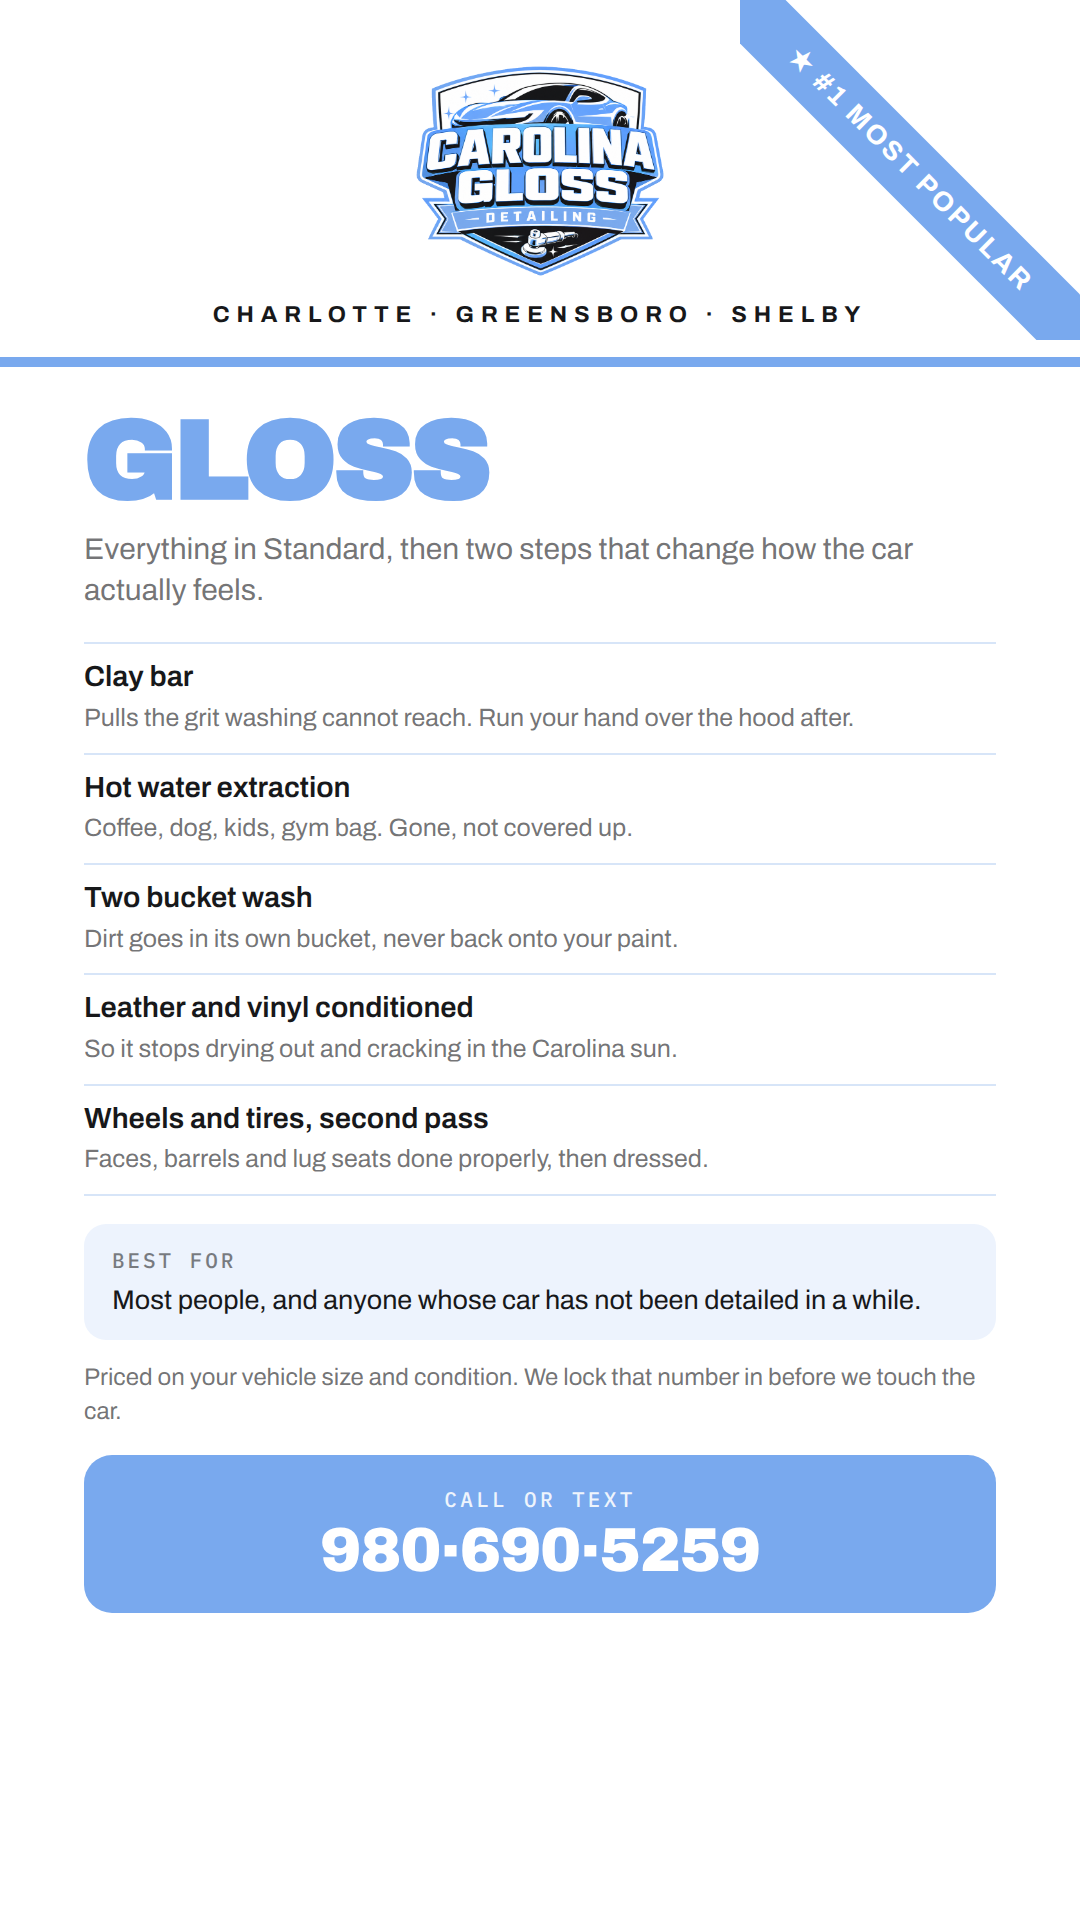
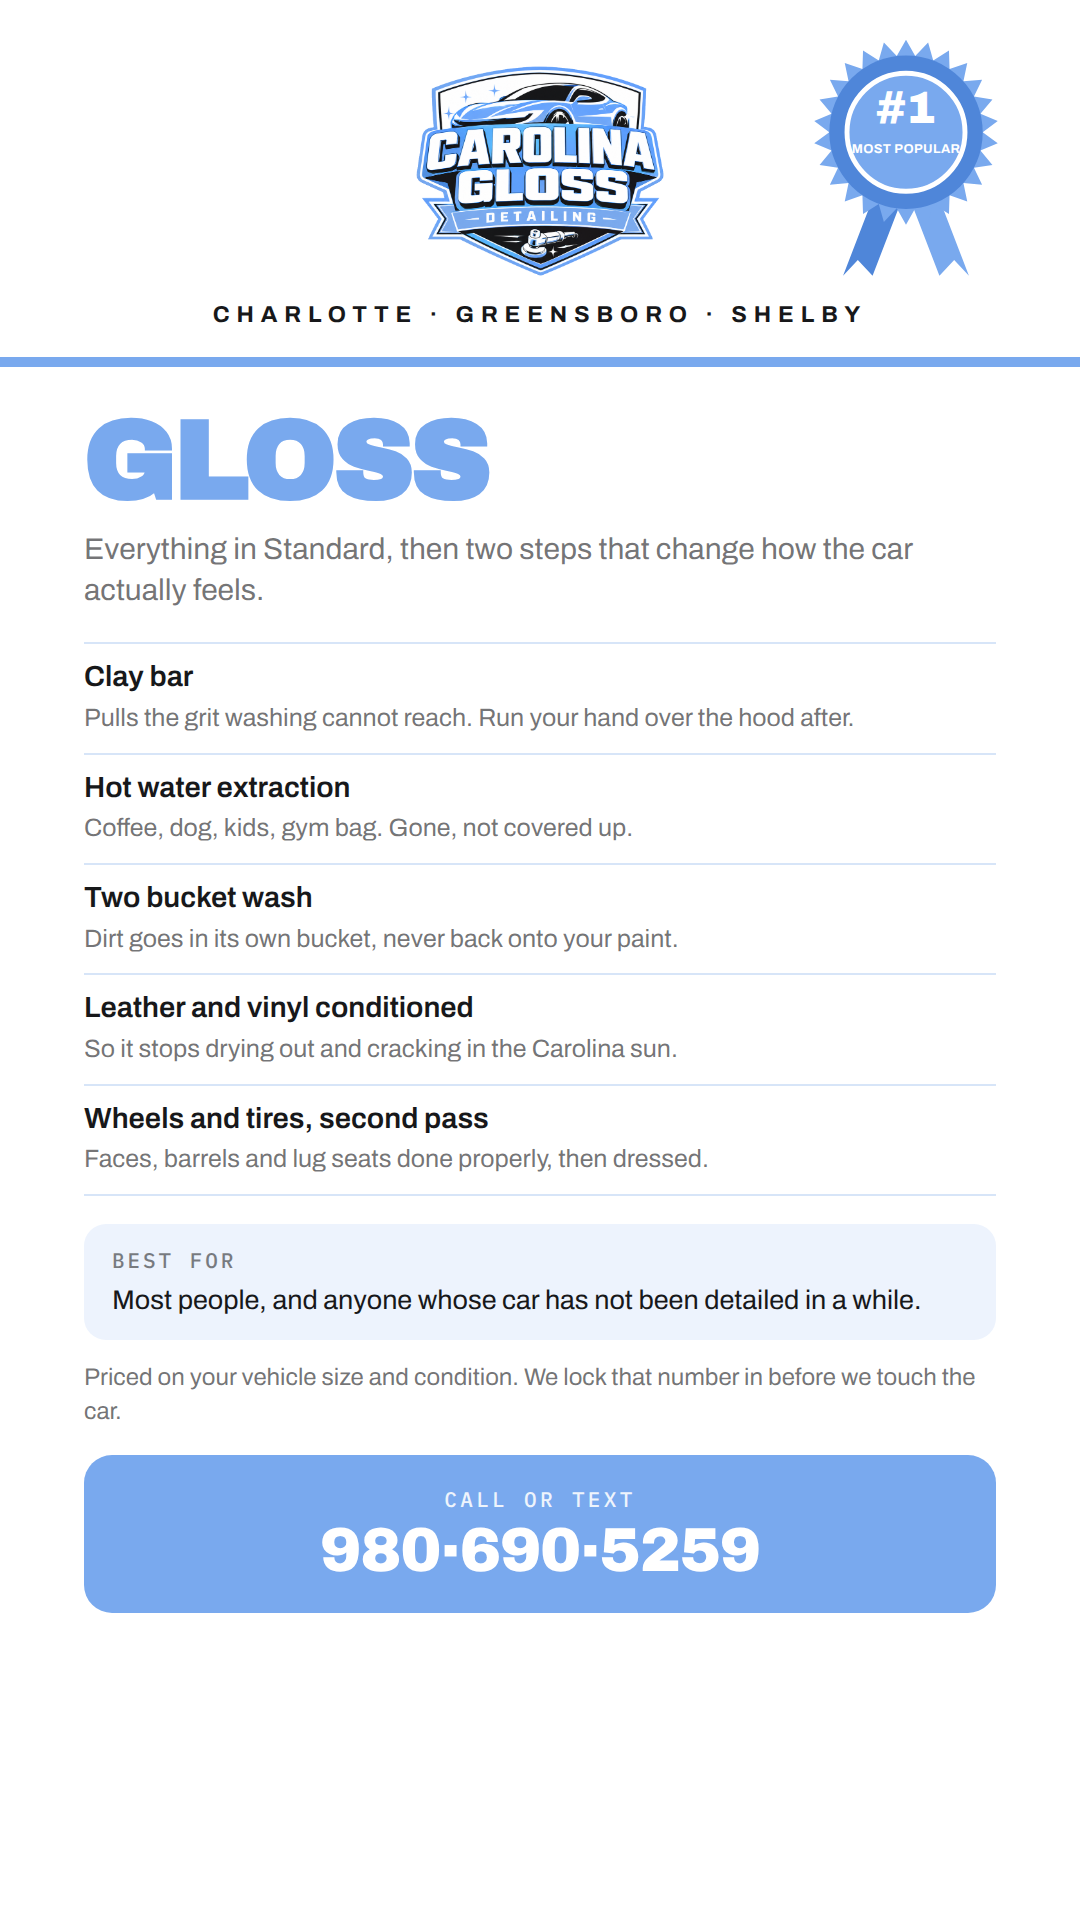
Draw the Most Popular badge as an award rosette
Swaps the corner banner for an inline-SVG rosette in the top right: pleated
ring, medallion reading #1 MOST POPULAR, two ribbon tails. Drawn as vectors
rather than an image so it scales and stays on brand.

Sized so the tails stop clear of the city line and the medallion label sits
inside its ring. A darker tone of the brand blue gives the pleats and tails
their depth.

Claude-Session: https://claude.ai/code/session_016b3V5EjCTmSZMCSHy3XdSF

Changed region(s): [[0.6722, 0.0, 1.0, 0.1875]]

diff --git a/design/story-highlights/Story Highlights - Services.dc.html b/design/story-highlights/Story Highlights - Services.dc.html
@@ -51,7 +51,7 @@
     <sc-if value="{{ showLabels }}" hint-placeholder-val="{{ true }}">
       <div style="font:500 30px 'IBM Plex Mono',monospace;color:#8A95A2;letter-spacing:0.04em;">02 Gloss</div>
     </sc-if>
-    <section data-screen-label="02 Gloss" style="width:1080px;height:1920px;flex:0 0 auto;position:relative;overflow:hidden;background:#FFFFFF;display:flex;flex-direction:column;"><div style="position:absolute;top:0;right:0;width:340px;height:340px;overflow:hidden;"><span style="position:absolute;width:481px;left:-70px;top:138px;padding:16px 0;background:#79A9EE;color:#FFFFFF;text-align:center;transform:rotate(45deg);font:700 27px 'Archivo',sans-serif;letter-spacing:0.1em;">&#9733; #1 MOST POPULAR</span></div>
+    <section data-screen-label="02 Gloss" style="width:1080px;height:1920px;flex:0 0 auto;position:relative;overflow:hidden;background:#FFFFFF;display:flex;flex-direction:column;"><svg style="position:absolute;top:26px;right:56px;width:236px;height:auto;display:block;" viewBox="0 0 240 262" aria-label="Number one most popular"><path d="M96 150 L126 150 L86 254 L71 238 L56 254 Z" fill="#4F86D9"/><path d="M144 150 L114 150 L154 254 L169 238 L184 254 Z" fill="#79A9EE"/><polygon points="120.0,14.0 129.4,30.6 142.5,16.7 147.7,35.1 163.7,24.8 164.3,43.8 182.3,37.6 178.4,56.3 197.4,54.6 189.1,71.8 207.9,74.7 195.7,89.3 213.3,96.7 198.0,108.0 213.3,119.3 195.7,126.7 207.9,141.3 189.1,144.2 197.4,161.4 178.4,159.7 182.3,178.4 164.3,172.2 163.7,191.2 147.7,180.9 142.5,199.3 129.4,185.4 120.0,202.0 110.6,185.4 97.5,199.3 92.3,180.9 76.3,191.2 75.7,172.2 57.7,178.4 61.6,159.7 42.6,161.4 50.9,144.2 32.1,141.3 44.3,126.7 26.7,119.3 42.0,108.0 26.7,96.7 44.3,89.3 32.1,74.7 50.9,71.8 42.6,54.6 61.6,56.3 57.7,37.6 75.7,43.8 76.3,24.8 92.3,35.1 97.5,16.7 110.6,30.6" fill="#79A9EE"/><circle cx="120" cy="108" r="78" fill="#4F86D9"/><circle cx="120" cy="108" r="60" fill="#79A9EE" stroke="#FFFFFF" stroke-width="5"/><text x="120" y="99" text-anchor="middle" fill="#FFFFFF" font-family="Archivo Black, Helvetica, sans-serif" font-size="46">#1</text><text x="120" y="129" text-anchor="middle" fill="#FFFFFF" font-family="Archivo, Helvetica, sans-serif" font-weight="700" font-size="13" letter-spacing="0.4">MOST POPULAR</text></svg>
       <div style="flex:0 0 auto;padding:64px 84px 30px;display:flex;flex-direction:column;align-items:center;">
         <img src="assets/logo.png" alt="Carolina Gloss Detailing" style="width:252px;height:auto;display:block;">
         <div style="margin-top:24px;font:700 23px 'Archivo',sans-serif;letter-spacing:0.3em;color:#17181A;">CHARLOTTE · GREENSBORO · SHELBY</div>

diff --git a/design/story-highlights/build.py b/design/story-highlights/build.py
@@ -22,6 +22,7 @@ BLUE = "#79A9EE"         # logo Carolina blue
 TINT = "#EDF3FD"         # BLUE washed into white, for cards
 RULE = "#D7E5F8"         # BLUE washed into white, for dividers
 MUTED = "rgba(23,24,26,0.62)"   # the same black, stepped back
+BLUE_DEEP = "#4F86D9"    # a darker tone of BLUE, only to give the rosette depth
 
 PHONE = "980\u00b7690\u00b75259"
 CITIES = "CHARLOTTE \u00b7 GREENSBORO \u00b7 SHELBY"
@@ -55,6 +56,9 @@ PACKAGES = [
                ("Interior shampooed and conditioned", "Comes back looking like a lease return.")],
          best="Selling it, gifting it, or you just love the thing."),
 ]
+
+
+ROSETTE = ('<svg class="rosette" viewBox="0 0 240 262" aria-label="Number one most popular"><path d="M96 150 L126 150 L86 254 L71 238 L56 254 Z" fill="{deep}"/><path d="M144 150 L114 150 L154 254 L169 238 L184 254 Z" fill="{blue}"/><polygon points="120.0,14.0 129.4,30.6 142.5,16.7 147.7,35.1 163.7,24.8 164.3,43.8 182.3,37.6 178.4,56.3 197.4,54.6 189.1,71.8 207.9,74.7 195.7,89.3 213.3,96.7 198.0,108.0 213.3,119.3 195.7,126.7 207.9,141.3 189.1,144.2 197.4,161.4 178.4,159.7 182.3,178.4 164.3,172.2 163.7,191.2 147.7,180.9 142.5,199.3 129.4,185.4 120.0,202.0 110.6,185.4 97.5,199.3 92.3,180.9 76.3,191.2 75.7,172.2 57.7,178.4 61.6,159.7 42.6,161.4 50.9,144.2 32.1,141.3 44.3,126.7 26.7,119.3 42.0,108.0 26.7,96.7 44.3,89.3 32.1,74.7 50.9,71.8 42.6,54.6 61.6,56.3 57.7,37.6 75.7,43.8 76.3,24.8 92.3,35.1 97.5,16.7 110.6,30.6" fill="{blue}"/><circle cx="120" cy="108" r="78" fill="{deep}"/><circle cx="120" cy="108" r="60" fill="{blue}" stroke="#FFFFFF" stroke-width="5"/><text x="120" y="99" text-anchor="middle" fill="#FFFFFF" font-family="Archivo Black, Helvetica, sans-serif" font-size="46">#1</text><text x="120" y="129" text-anchor="middle" fill="#FFFFFF" font-family="Archivo, Helvetica, sans-serif" font-weight="700" font-size="13" letter-spacing="0.4">MOST POPULAR</text></svg>')
 
 
 def b64(path):
@@ -91,8 +95,7 @@ def row_html(title, desc, last):
 
 
 def page(pkg, logo_uri, faces):
-    ribbon = ('<div class="ribbon"><span>&#9733; #1 MOST POPULAR</span></div>'
-              if pkg["popular"] else "")
+    ribbon = ('%s' % ROSETTE.format(blue=BLUE, deep=BLUE_DEEP)) if pkg["popular"] else ""
     rows = "".join(row_html(t, d, i == len(pkg["rows"]) - 1)
                    for i, (t, d) in enumerate(pkg["rows"]))
     return """<!doctype html><html><head><meta charset="utf-8"><style>
@@ -104,11 +107,7 @@ body{{width:1080px;height:1920px;overflow:hidden;background:#fff;
  text-rendering:geometricPrecision;color:{ink};}}
 .frame{{width:1080px;height:1920px;display:flex;flex-direction:column;background:#fff;
  position:relative;overflow:hidden;}}
-.ribbon{{position:absolute;top:0;right:0;width:340px;height:340px;overflow:hidden;
- pointer-events:none;}}
-.ribbon span{{position:absolute;width:481px;left:-70px;top:138px;padding:16px 0;
- background:{blue};color:#FFFFFF;text-align:center;transform:rotate(45deg);
- font:700 27px Archivo,sans-serif;letter-spacing:0.1em;}}
+.rosette{{position:absolute;top:26px;right:56px;width:236px;height:auto;display:block;}}
 .head{{flex:0 0 auto;padding:64px 84px 30px;display:flex;flex-direction:column;
  align-items:center;}}
 .head img{{width:252px;height:auto;display:block;}}
@@ -199,11 +198,10 @@ def main():
 # additionally accepts a real photo behind a dark scrim once the client has one.
 
 def canvas_section(pkg, idx):
-    ribbon = ('<div style="position:absolute;top:0;right:0;width:340px;height:340px;overflow:hidden;">'
-              '<span style="position:absolute;width:481px;left:-70px;top:138px;padding:16px 0;'
-              'background:%s;color:#FFFFFF;text-align:center;transform:rotate(45deg);'
-              'font:700 27px \'Archivo\',sans-serif;letter-spacing:0.1em;">'
-              '&#9733; #1 MOST POPULAR</span></div>' % BLUE) if pkg["popular"] else ""
+    ribbon = (ROSETTE.format(blue=BLUE, deep=BLUE_DEEP).replace(
+                  'class="rosette"',
+                  'style="position:absolute;top:26px;right:56px;width:236px;height:auto;display:block;"')
+              ) if pkg["popular"] else ""
     rows = []
     for i, (t, d) in enumerate(pkg["rows"]):
         edge = "border-bottom:2px solid %s;" % RULE if i == len(pkg["rows"]) - 1 else ""

diff --git a/design/story-highlights/COPY.md b/design/story-highlights/COPY.md
@@ -27,7 +27,7 @@ A full hand wash outside and a proper clean inside. No machines, no brushes, no 
 
 **Best for** A car that gets cleaned regularly and just needs bringing back.
 
-## GLOSS  (carries the corner ribbon)
+## GLOSS  (carries the #1 rosette)
 
 Everything in Standard, then two steps that change how the car actually feels.
 
@@ -63,7 +63,8 @@ Sampled from the pixels of `assets/logo.png`. Three colors, nothing else.
 |---|---|---|
 | White | `#FFFFFF` | the ground everywhere, and the type inside the blue CTA |
 | Black | `#17181A` | body type. Neutral, no blue cast |
-| Carolina blue | `#79A9EE` | 35% of the crest. Package name, CTA block, divider bar, the Gloss corner ribbon |
+| Carolina blue | `#79A9EE` | 35% of the crest. Package name, CTA block, divider bar, the Gloss rosette |
+| Deep blue | `#4F86D9` | a darker tone of the same blue, only to give the rosette depth |
 
 `#EDF3FD` and `#D7E5F8` are that same blue washed into white for the card and the
 dividers. The blue is too light for small text on white, so it only ever appears as a
